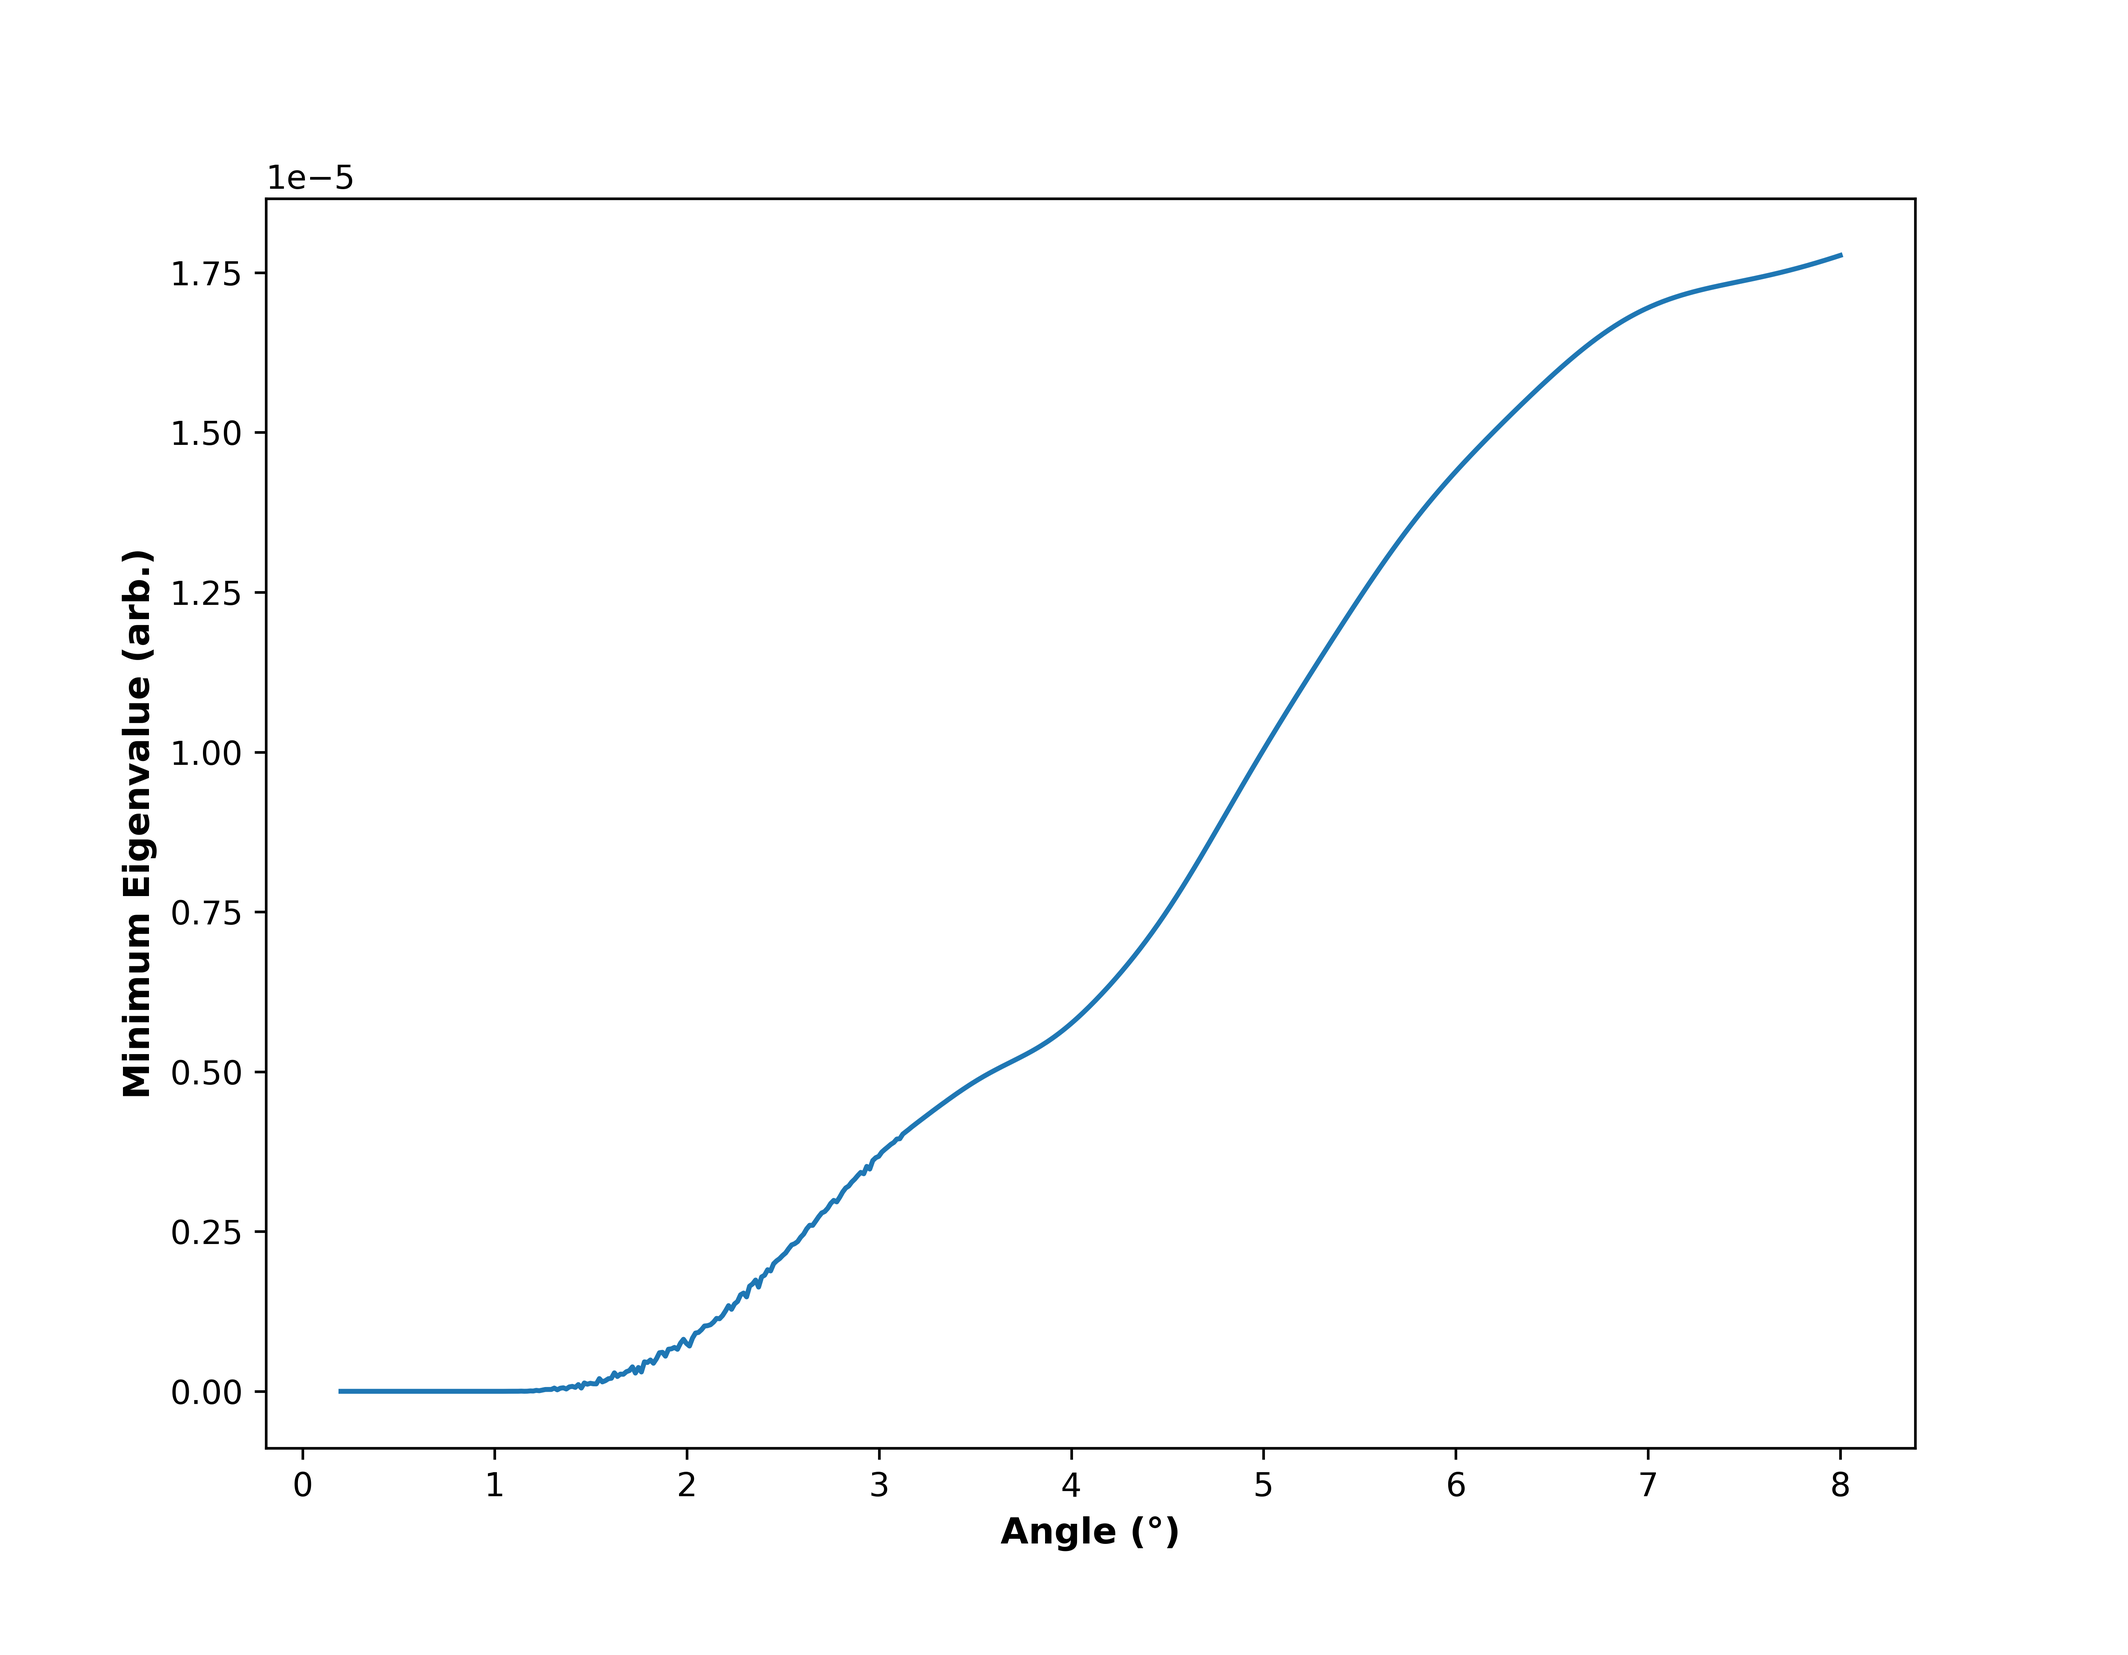
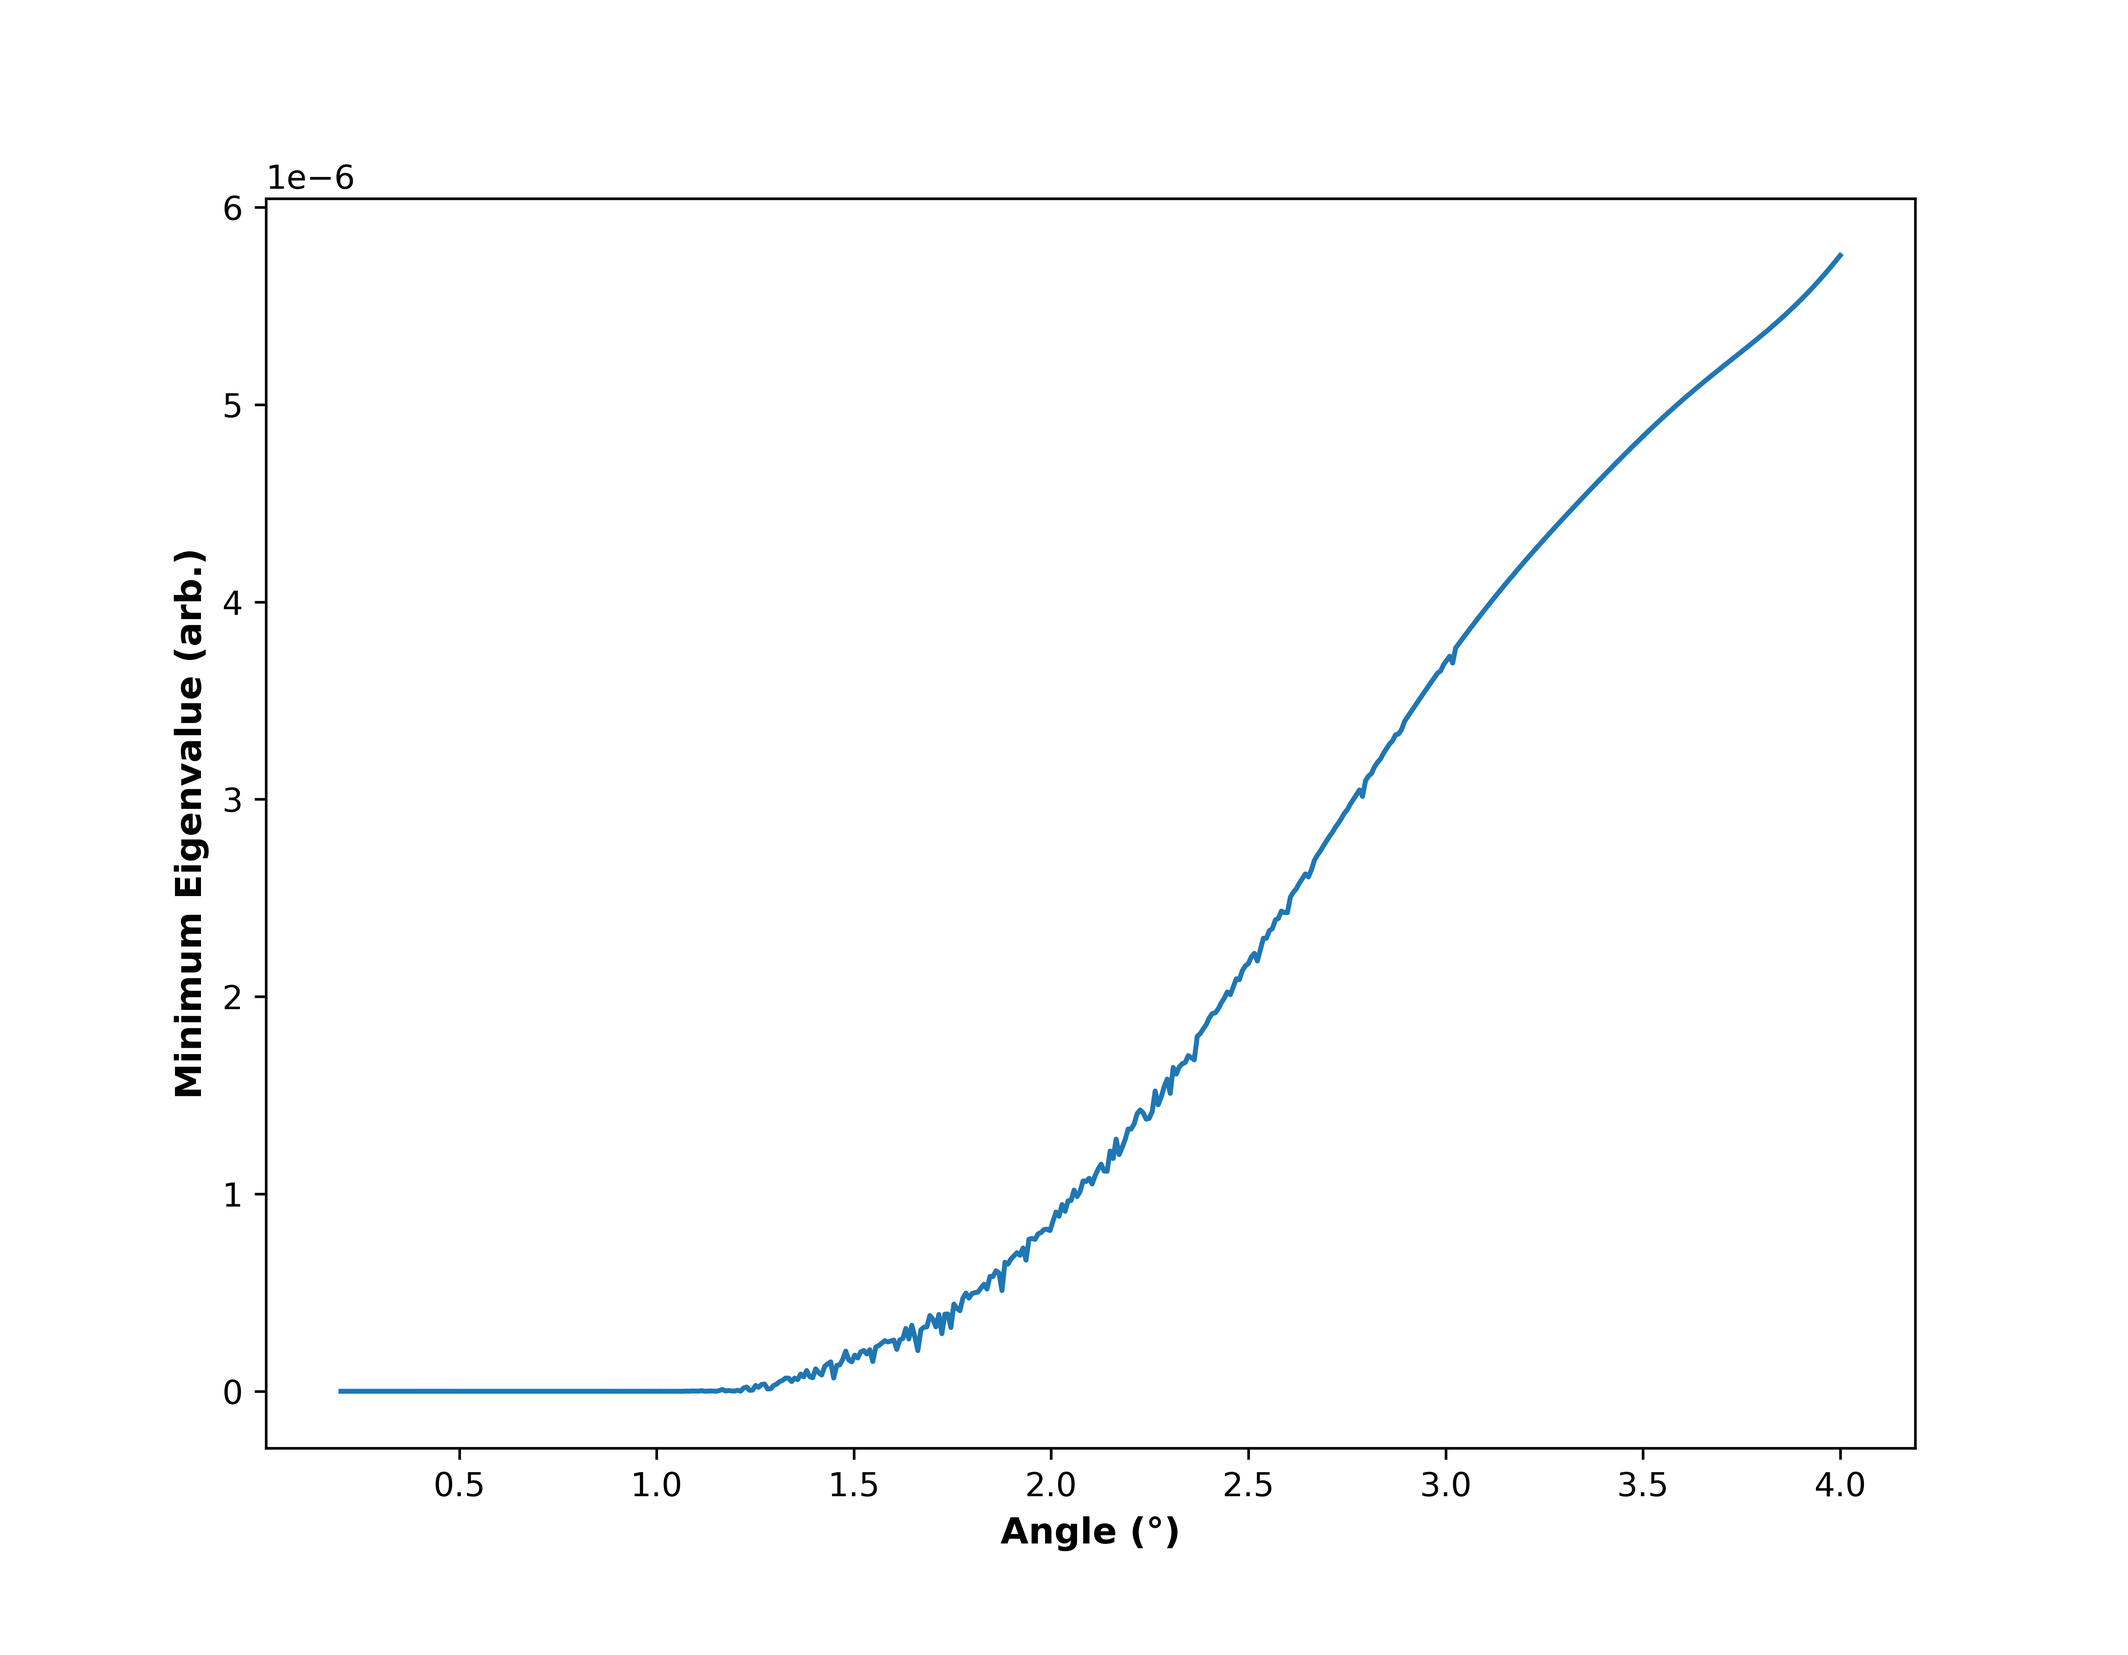
Updated results

diff --git a/experimental-design/structures.py b/experimental-design/structures.py
@@ -479,6 +479,7 @@ class YIG_Sample(MagneticSample, VariableUnderlayer):
 
         # Save the sampling corner plot.
         save_path = os.path.join(save_path, self.name)
+        save_plot(fig, save_path, 'nested_sampling_'+filename)
 
 class BaseLipid(BaseSample, VariableContrast, VariableUnderlayer):
     """Abstract class representing the base class for a lipid model."""
@@ -667,7 +668,7 @@ class BaseLipid(BaseSample, VariableContrast, VariableUnderlayer):
 
         # Save the sampling corner plot.
         save_path = os.path.join(save_path, self.name)
-        save_plot(fig, save_path, filename+'_nested_sampling')
+        save_plot(fig, save_path, 'nested_sampling_'+filename)
 
 class Monolayer(BaseLipid):
     def __init__(self, deuterated=False):
@@ -1005,17 +1006,17 @@ class SymmetricBilayer(BaseLipid):
         substrate = refnx.reflect.SLD(self.si_sld)
         solution  = refnx.reflect.SLD(contrast_sld)(rough=self.bilayer_rough)
 
-        sio2     = refnx.reflect.Slab(self.sio2_thick, self.sio2_sld, self.si_rough,      vfsolv=self.sio2_solv)
         inner_hg = refnx.reflect.Slab(hg_thick,        hg_sld,        self.sio2_rough,    vfsolv=self.bilayer_solv)
         outer_hg = refnx.reflect.Slab(hg_thick,        hg_sld,        self.bilayer_rough, vfsolv=self.bilayer_solv)
         tg       = refnx.reflect.Slab(tg_thick,        self.tg_sld,   self.bilayer_rough, vfsolv=self.bilayer_solv)
 
         # Add the underlayer if specified.
         if underlayers is None:
+            sio2 = refnx.reflect.Slab(self.sio2_thick, self.sio2_sld, self.si_rough, vfsolv=self.sio2_solv)
             return substrate | sio2 | inner_hg | tg | tg | outer_hg | solution
         else:
             # Add each underlayer with given thickness and SLD.
-            sio2.vfsolv.value = 0
+            sio2 = refnx.reflect.Slab(self.sio2_thick, self.sio2_sld, self.si_rough, vfsolv=0)
             structure = substrate | sio2
             for thick, sld in underlayers:
                 underlayer = refnx.reflect.SLD(sld)(thick, 2)
@@ -1184,11 +1185,41 @@ class AsymmetricBilayer(BaseLipid):
             return substrate | sio2 | inner_hg | inner_tg | outer_tg | core | solution
         else:
             # Add each underlayer with given thickness and SLD.
+            sio2.vfsolv.value = 0
             structure = substrate | sio2
             for thick, sld in underlayers:
-                underlayer = refnx.reflect.SLD(sld)(thick, self.sio2_rough, self.sio2_solv)
+                underlayer = refnx.reflect.SLD(sld)(thick, 2)
                 structure |= underlayer
             return structure | inner_hg | inner_tg | outer_tg | core | solution
+
+    def underlayer_info(self, angle_times, contrasts, underlayers):
+        """Calculates the Fisher information matrix for a lipid sample with `underlayers`,
+           and with contrasts measured over a number of angles.
+
+        Args:
+            angle_times (list): points and counting times for each measurement angle to simulate.
+            contrasts (list): SLDs of contrasts to simulate.
+            underlayers (list): thickness and SLD of each underlayer to add.
+
+        Returns:
+            numpy.ndarray: Fisher information matrix.
+
+        """
+        params_all = self.params
+        self.params = [self.si_rough,
+                       self.sio2_thick,
+                       self.inner_hg_thick,
+                       self.inner_hg_solv,
+                       self.bilayer_rough,
+                       self.inner_tg_thick,
+                       self.outer_tg_thick,
+                       self.tg_solv,
+                       self.core_thick,
+                       self.core_solv]
+        
+        g = super().underlayer_info(angle_times, contrasts, underlayers)
+        self.params = params_all
+        return g
 
 class SingleAsymmetricBilayer(AsymmetricBilayer):
     """Defines a model describing an asymmetric bilayer defined by a single
@@ -1347,13 +1378,11 @@ def similar_sld_sample_2():
     return Sample(structure)
 
 if __name__ == '__main__':
-    #structures = [simple_sample, many_param_sample,
-    #              thin_layer_sample_1, thin_layer_sample_2,
-    #              similar_sld_sample_1, similar_sld_sample_2,
-    #              YIG_Sample, Monolayer,
-    #              SymmetricBilayer, SingleAsymmetricBilayer]
-
-    structures = [Monolayer]
+    structures = [simple_sample, many_param_sample,
+                  thin_layer_sample_1, thin_layer_sample_2,
+                  similar_sld_sample_1, similar_sld_sample_2,
+                  YIG_Sample, Monolayer,
+                  SymmetricBilayer, SingleAsymmetricBilayer]
 
     save_path = './results'
 

diff --git a/experimental-design/design.py b/experimental-design/design.py
@@ -180,7 +180,7 @@ def contrast_choice_single(sample, contrast_range, initial_contrasts, angle_time
     return contrast_range[np.argmax(min_eigs)]
 
 def contrast_choice_double(sample, contrast_range, angle_times, save_path,
-                           reverse_xaxis=True, reverse_yaxis=True):
+                           reverse_xaxis=True, reverse_yaxis=False):
     """Plots the change in minimum eigenvalue of the Fisher information matrix
        as a function of two contrast SLDs, assuming no prior measurement.
 
@@ -233,7 +233,7 @@ def contrast_choice_double(sample, contrast_range, angle_times, save_path,
 
     ax.set_xlabel('$\mathregular{Contrast \ 1 \ SLD \ (10^{-6} \AA^{-2})}$', fontsize=11, weight='bold')
     ax.set_ylabel('$\mathregular{Contrast \ 2 \ SLD \ (10^{-6} \AA^{-2})}$', fontsize=11, weight='bold')
-    ax.set_zlabel('Minimum Eigenvalue (arb.)', fontsize=11, weight='bold')
+    ax.set_zlabel('Minimum Eigenvalue', fontsize=11, weight='bold')
     ax.ticklabel_format(axis='z', style='sci', scilimits=(0,0))
 
     # Save the plot.
@@ -316,8 +316,7 @@ def _angle_results(save_path='./results'):
     from structures import similar_sld_sample_1, similar_sld_sample_2
     from structures import thin_layer_sample_1, thin_layer_sample_2
     from structures import simple_sample, many_param_sample
-    from structures import YIG_Sample, Monolayer
-    from structures import SymmetricBilayer, SingleAsymmetricBilayer
+    from structures import YIG_Sample, SymmetricBilayer, SingleAsymmetricBilayer
 
     # Choose sample here.
     sample = simple_sample()
@@ -325,7 +324,7 @@ def _angle_results(save_path='./results'):
     #contrasts = [6.36]
 
     # Number of points and counting time for the initial angle choice.
-    points = 150
+    points = 100
     time = 100
 
     # Get the best angle to initially measure.
@@ -351,7 +350,7 @@ def _contrast_results(save_path='./results'):
     bilayer = SymmetricBilayer()
 
     # Number of points and counting times for each angle to simulate.
-    angle_times = [(0.7, 150, 100), (2.3, 150, 400)]
+    angle_times = [(0.7, 100, 100), (2.3, 100, 400)]
 
     # Investigate single contrast choices assuming different initial measurements.
     contrast_range = np.linspace(-0.56, 6.36, 500)
@@ -366,7 +365,7 @@ def _contrast_results(save_path='./results'):
 
     # Run nested sampling on simulated data to validate the improvements using the suggested designs.
     bilayer.nested_sampling([6.36, 6.36], angle_times, save_path, 'D2O_D2O', dynamic=True)
-    bilayer.nested_sampling([-0.56, 6.36], angle_times, save_path, 'H2O_D2O', dynamic=True)
+    bilayer.nested_sampling([6.36, -0.56], angle_times, save_path, 'D2O_H2O', dynamic=True)
 
 def _underlayer_results(save_path='./results'):
     """Investigates the choice of underlayer thickness and SLD for a bilayer sample.
@@ -386,13 +385,13 @@ def _underlayer_results(save_path='./results'):
     angle_times = [(0.7, 100, 100), (2.3, 100, 400)]
 
     # Investigate underlayer choice assuming no prior measurement.
-    thickness_range = np.linspace(5, 500, 25)
-    sld_range = np.linspace(1, 9, 50)
+    thickness_range = np.linspace(5, 500, 50)
+    sld_range = np.linspace(1, 9, 100)
     thick, sld = underlayer_choice(bilayer, thickness_range, sld_range, contrasts, angle_times, save_path)
     print('Thickness: {}'.format(round(thick)))
     print('SLD: {}'.format(round(sld, 2)))
 
 if __name__ == '__main__':
-    #_angle_results()
-    #_contrast_results()
+    _angle_results()
+    _contrast_results()
     _underlayer_results()

diff --git a/experimental-design/optimise.py b/experimental-design/optimise.py
@@ -261,10 +261,19 @@ def _underlayer_results(optimiser, angle_times, contrasts, thick_bounds, sld_bou
 
     # Create a new text file for the results.
     with open(os.path.join(save_path, 'optimised_underlayers.txt'), 'w') as file:
+        g = optimiser.sample.contrast_info(angle_times, contrasts)
+        val = -np.linalg.eigvalsh(g)[0]
+        val = np.format_float_positional(val, precision=4, unique=False, fractional=False, trim='k')
+        
+        file.write('----------- No Underlayers -----------\n')
+        file.write('Thicknesses: {}\n'.format([]))
+        file.write('SLDs: {}\n'.format([]))
+        file.write('Objective value: {}\n'.format(val))
+        
         # Optimise the experiment using 1-4 contrasts.
-        for i, num_underlayers in enumerate([1, 2, 3]):
+        for i, num_underlayers in enumerate([1, 2]):
             # Display progress.
-            print('>>> {0}/{1}'.format(i, 3))
+            print('>>> {0}/{1}'.format(i, 2))
 
             # Time how long the optimisation takes.
             start = time.time()
@@ -278,7 +287,7 @@ def _underlayer_results(optimiser, angle_times, contrasts, thick_bounds, sld_bou
             # Write the optimised conditions, objective value and computation time to the results file.
             file.write('----------- {} Underlayers -----------\n'.format(num_underlayers))
             file.write('Thicknesses: {}\n'.format(list(np.round(thicknesses, 1))))
-            file.write('SLDs (%): {}\n'.format(list(np.round(slds, 2))))
+            file.write('SLDs: {}\n'.format(list(np.round(slds, 2))))
             file.write('Objective value: {}\n'.format(val))
             file.write('Computation time: {}\n\n'.format(round(end-start, 1)))
 
@@ -290,7 +299,7 @@ if __name__ == '__main__':
 
     total_time = 1000
     angle_bounds = (0.2, 4)
-    #_angle_results(optimiser, total_time, angle_bounds)
+    _angle_results(optimiser, total_time, angle_bounds)
 
     angle_splits = [(0.5, 100, 0.06), (2.3, 100, 0.94)]
     contrast_bounds = (-0.56, 6.36)
@@ -300,4 +309,4 @@ if __name__ == '__main__':
     contrasts = [6.36]
     thick_bounds = (0, 500)
     sld_bounds = (1, 9)
-    _underlayer_results(optimiser, angle_times, contrasts, thick_bounds, sld_bounds)
+    #_underlayer_results(optimiser, angle_times, contrasts, thick_bounds, sld_bounds)

diff --git a/experimental-design/simulate.py b/experimental-design/simulate.py
@@ -77,6 +77,9 @@ def simulate(sample, angle_times, scale=1, bkg=1e-6, dq=2, spin_state=None,
     data = data[(data != 0).all(1)] # Remove points of zero reflectivity.
     data = data[data[:,0].argsort()] # Sort by Q.
 
+    if len(data) == 0:
+        return None, np.zeros((0, 4)) 
+
     # If a refnx sample was given, create a ReflectModel.
     if isinstance(sample, refnx.reflect.Structure):
         model = refnx.reflect.ReflectModel(sample, scale=scale, bkg=bkg, dq=dq)
@@ -84,6 +87,7 @@ def simulate(sample, angle_times, scale=1, bkg=1e-6, dq=2, spin_state=None,
     # If a Refl1D sample was given, create a Refl1D Experiment.
     elif isinstance(sample, refl1d.model.Stack):
         q, r, dr = data[:,0], data[:,1], data[:,2]
+        
         model = refl1d_experiment(sample, q, scale, bkg, dq, spin_state)
         model.probe.xs[spin_state].R = r
         model.probe.xs[spin_state].dR = dr
@@ -219,7 +223,6 @@ def refl1d_experiment(sample, q_array, scale, bkg, dq, spin_state=None):
     probe.calc_Qo = np.linspace(q_array[argmin] - 3.5*dq_array[argmin],
                                 q_array[argmax] + 3.5*dq_array[argmax],
                                 21*len(q_array))
-    
     if sample.ismagnetic:
         probes = [None]*4
         probes[spin_state] = probe

diff --git a/experimental-design/kinetics.py b/experimental-design/kinetics.py
@@ -80,17 +80,17 @@ def optimise(sample, angle_bounds, contrast_bounds, apm_range, points, time, sav
     return res.x[0], res.x[1], res.fun
 
 def _kinetics_results(save_path='./results'):
-    angle_range = np.linspace(0.2, 4, 25)
-    contrast_range = np.linspace(-0.56, 6.36, 50)
-    apm_range = np.linspace(54.1039, 500, 25)
+    angle_range = np.linspace(0.2, 4, 50)
+    contrast_range = np.linspace(-0.56, 6.36, 100)
+    apm_range = np.linspace(54.1039, 500, 20)
     points = 100
     time = 1000
     
     monolayer_h, monolayer_d = Monolayer(deuterated=False), Monolayer(deuterated=True)
     
-    #kinetics(monolayer_h, angle_range, contrast_range, apm_range, points, time, save_path)
-    #kinetics(monolayer_d, angle_range, contrast_range, apm_range, points, time, save_path)
-    
+    kinetics(monolayer_h, angle_range, contrast_range, apm_range, points, time, save_path)
+    kinetics(monolayer_d, angle_range, contrast_range, apm_range, points, time, save_path)
+
     angle_bounds = (0.2, 4)
     contrast_bounds = (-0.56, 6.36)
     with open(os.path.join(save_path, monolayer_h.name, 'optimised.txt'), 'w') as file:
